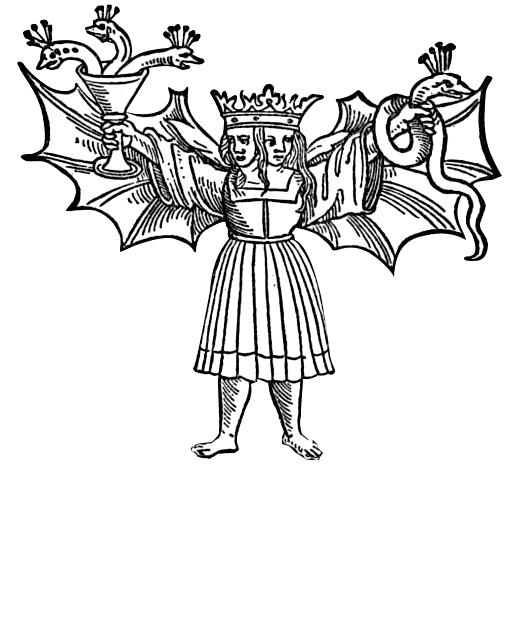
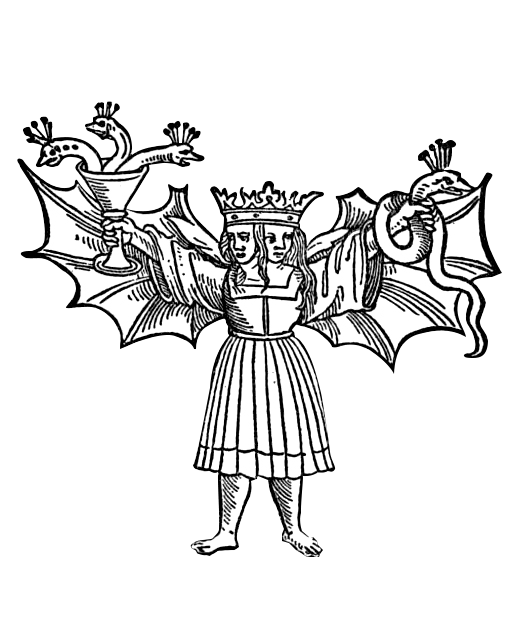
upgrade

Changed region(s): [[0.0295, 0.0, 1.0, 0.8736]]

diff --git a/week8-creatureConstructor/src/testApp.cpp b/week8-creatureConstructor/src/testApp.cpp
@@ -5,7 +5,7 @@ void testApp::setup(){
     ofEnableAlphaBlending();
     ofSetVerticalSync(true);
     
-    thing.init("thing.png", ofPoint(800,ofGetHeight()*0.5));
+    thing.init("bicefalo.png", ofPoint(800,ofGetHeight()*0.5));
 //    thing.load("thing.xml", ofPoint(800,270) );
     thing.startEditMode();
     bEdit = true;

diff --git a/week8-for-creature/src/testApp.cpp b/week8-for-creature/src/testApp.cpp
@@ -76,7 +76,7 @@ void testApp::update(){
         }
     }
     
-    ofSetWindowTitle(ofToString(ofGetFrameRate()));
+//    ofSetWindowTitle(ofToString(ofGetFrameRate()));
 }
 
 //--------------------------------------------------------------

diff --git a/README.md b/README.md
@@ -1,6 +1,7 @@
-# [Parsons Algorithmic Animation 2012](http://www.newschool.edu/Parsons/faculty.aspx?id=67509) by [Zach Lieberman](http://www.newschool.edu/Parsons/faculty.aspx?id=48257)
+# [Parsons Algorithmic Animation 2012](http://www.newschool.edu/Parsons/faculty.aspx?id=67509) with [Zach Lieberman](http://www.newschool.edu/Parsons/faculty.aspx?id=48257)
 
-This class will look at the fundamentals of animation and animated form through the lens of computation. Artists have always used different technology to animate - from early zoetropes to hand drawn etched film - and with programming, there is a new branch of a long tradition forming. We will focus on techniques for writing code to move objects in a compelling and life-like manner. For folks who are newer to code, this class will work as a gentle but serious introduction to the medium, for experts this will present new approaches and strategies for expression. In addition to looking at and working through code, we will be studying several pioneers of abstract animation, Norman McLaren, John Whitney, Oskar Fischinger, as well as modern day practitioners like Toshio Iwai and Masahiko Sato. Technically, the course will be taught using a series of code examples, tools and problems coded in open frameworks, a cross platform c++ toolkit for creative hacking. This is an advanced programming class, students should be very comfortable with reading and writing code. 
+This is my material for this class.
+Here is a description of it: it will look at the fundamentals of animation and animated form through the lens of computation. Artists have always used different technology to animate - from early zoetropes to hand drawn etched film - and with programming, there is a new branch of a long tradition forming. We will focus on techniques for writing code to move objects in a compelling and life-like manner. For folks who are newer to code, this class will work as a gentle but serious introduction to the medium, for experts this will present new approaches and strategies for expression. In addition to looking at and working through code, we will be studying several pioneers of abstract animation, Norman McLaren, John Whitney, Oskar Fischinger, as well as modern day practitioners like Toshio Iwai and Masahiko Sato. Technically, the course will be taught using a series of code examples, tools and problems coded in open frameworks, a cross platform c++ toolkit for creative hacking. This is an advanced programming class, students should be very comfortable with reading and writing code. 
 
 Links of the class:
 
